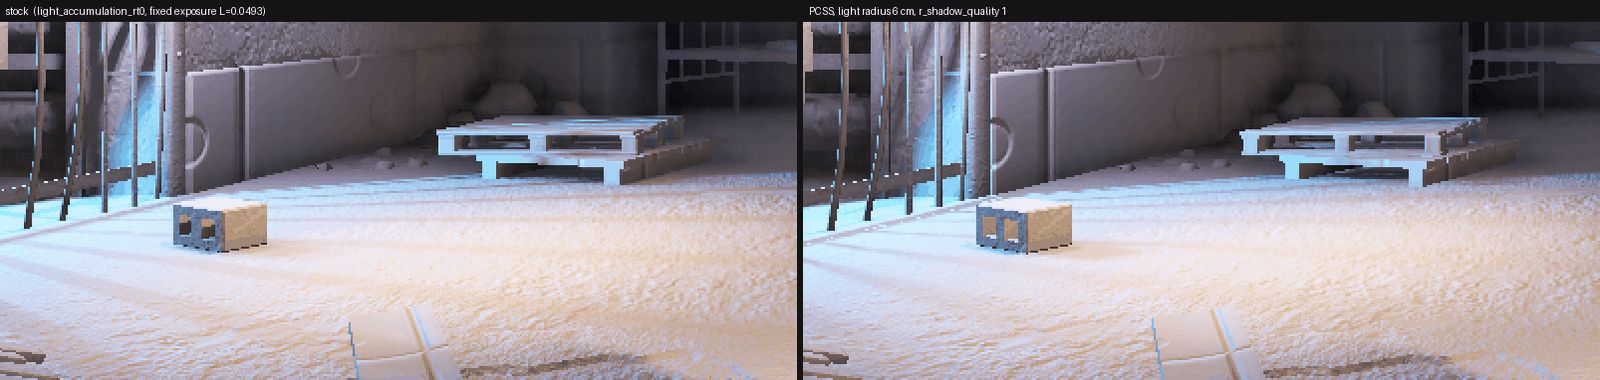
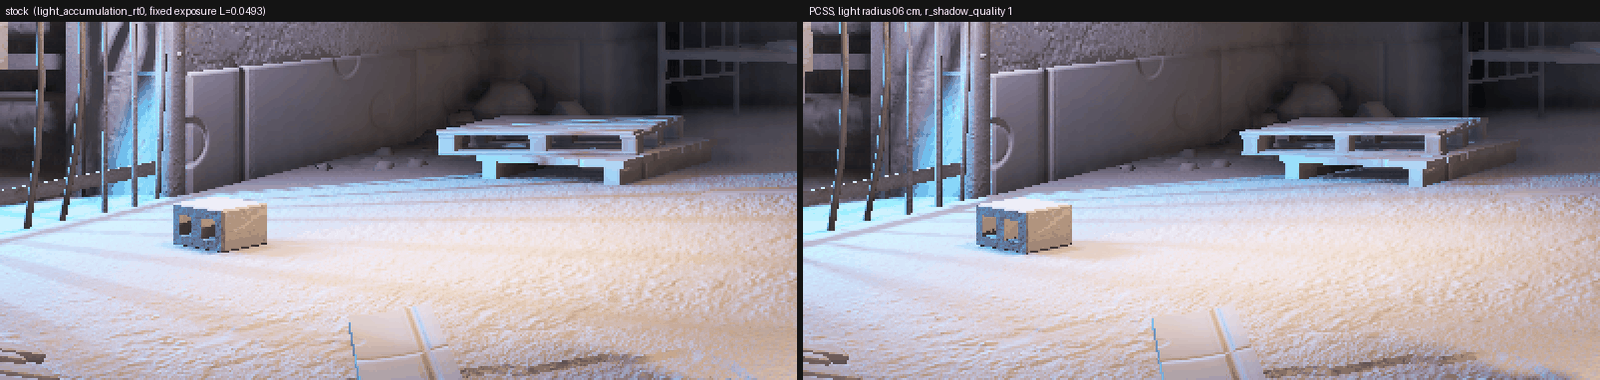
PCSS: its own normal offset (1.5 shadow-map texels along the normal); recaptured pairs, loss table and cost

diff --git a/srp-026g/docs/notes/renderer-026g.md b/srp-026g/docs/notes/renderer-026g.md
@@ -975,8 +975,9 @@ Pairs (`srp-026g/docs/images/renderer-026g/`; left stock, right PCSS; `r_shadow_
   receiver-plane bias (the full kernel radius times a slope clamped at tan = 10) pushed the
   compared depth behind a blocker that sits a few cm from its receiver. The current version
   biases each tap by its own distance from the centre and clamps the slope at tan = 2 (section
-  13): the bench shadow is back whole; the shelf's band is back, its far lower-left corner is
-  still lighter than stock.
+  13), and the normal offset is 1.5 shadow-map texels along the normal instead of the stock
+  9 cm towards the light: the bench shadow is back whole, the shelf's band is back; the far
+  lower-left corner of the shelf's shadow is still lighter than stock.
 
 Shadows lost or added against stock, OBSERVED (local-light diffuse in 8x8 blocks, the character
 masked out; % of blocks over 25 % brighter / darker):
@@ -984,9 +985,10 @@ masked out; % of blocks over 25 % brighter / darker):
 ```
                         shelf wall   under bench   whole view
 first try, 6 cm, q1      +46 / -0     +26 / -1      +5 / -2
-current,   6 cm, q1      +15 / -0      +5 / -3      +2 / -1
-current,  15 cm, q1      +19 / -0      +9 / -0      +3 / -2
-current,   6 cm, q2      +13 / -0      +1 / -0      +3 / -1   (against stock q2)
+per-tap bias, 6 cm, q1   +15 / -0      +5 / -3      +2 / -1
+current,   6 cm, q1       +8 / -3      +2 / -6      +2 / -2
+current,  15 cm, q1      +14 / -4      +4 / -6      +2 / -3
+current,   6 cm, q2       +6 / -1      +3 / -1      +4 / -2   (against stock q2)
 ```
 
 **Cost, OBSERVED** (GPU time of the 57 shadowed light draws of this frame, RenderDoc replay on an
@@ -995,13 +997,13 @@ draws stay at about 95 us):
 
 ```
 r_shadow_quality   stock     PCSS 6 cm        PCSS 15 cm
-       1           182 us    346 us (+164)    347 us (+165)
-       2           355 us    577 us (+222)    -
-whole frame (sum of draws): stock 2.25 ms (q1) / 2.49 ms (q2); PCSS 2.27..2.33 ms (q1) / 2.79 ms (q2)
+       1           182 us    363 us (+181)    362 us (+180)
+       2           355 us    600 us (+245)    -
+whole frame (sum of draws): stock 2.25 ms (q1) / 2.49 ms (q2); PCSS 2.34..2.42 ms (q1) / 2.82 ms (q2)
 ```
 
-PCSS at quality 1 (16 blocker loads + 8 compares) costs about what the stock quality 2 filter
-does (346 against 355 us). Frames per second were not measured: under the dummy display and the
+PCSS at quality 1 (16 blocker loads + 8 compares) costs what the stock quality 2 filter does,
+within the measurement's noise (363 against 355 us). Frames per second were not measured: under the dummy display and the
 capture layer the frame rate is set by the CPU and the 60 Hz mode, and the shadow cost
 (0.1..0.25 ms a frame here) is below what fps would show; the per-draw GPU time is the measure.
 
@@ -1080,6 +1082,9 @@ no shader; they are not a size and stay unused. PROVEN (the inputs), design (the
                     keep depths < the tap's biased receiver depth; none -> lit (no filter taps)
 2. penumbra         z_b = Qn / (Q - mean blocker depth)
                     w   = R (z_r - z_b) / z_b * P00 / (2 z_r)    in uv, clamped 1 .. 24 texels
+normal offset       1.5 shadow-map texels at the receiver, along the G-buffer normal (the stock
+                    24 / shadow_map_size metres towards the light moved a wall's receiver in
+                    front of a shelf on it at a grazing light)
 3. filter           N_f bilinear compare taps on a disc of radius w
                     s = saturate(mean + shadow_transparency)
 receiver-plane bias, per tap: depth minus (|tap| * radius + 1.5 texels) * Qn/z_r^2 *
@@ -1093,8 +1098,8 @@ disc: Vogel (golden angle); at r_shadow_quality 2 and 3 rotated per pixel by int
       as grain; the screen-fixed pattern is only smoothed when the player picks TAA)
 ```
 
-`R` is the light's radius, `z_r` the receiver's distance from the light. The stock normal offset
-(section 4.4) and the stock depth test (`0 <= d <= 1`) are kept.
+`R` is the light's radius, `z_r` the receiver's distance from the light. The stock depth test
+(`0 <= d <= 1`) is kept; the normal offset is PCSS's own (above), not the stock one (section 4.4).
 
 **Cost by `r_shadow_quality`** (the permutation's A digit), shadow-map reads per pixel of a
 shadowed light (a point light: per pixel of each face; each read is one instruction, a compare read
@@ -1111,8 +1116,11 @@ ALU slots (point, SSDO on): stock 146 / 181; PCSS 382 (q1), 595 (q2), 739 (q3)
 
 **Tested** in the Basement, section 11: contact hardening on the floor and the characters; the
 bench's shadow kept whole; the far corner of the shelf's shadow on the wall still lighter than
-stock (13..19 % of that wall's blocks). Next: the stock normal offset (up to 9 cm for a 256 map)
-scaled down where the penumbra is wide, which should give that corner back.
+stock (8 % of that wall's blocks at 6 cm, 14 % at 15 cm). What is left there is the per-tap
+receiver-plane bias over a wide penumbra at a grazing light: the clean fix is a slope-scaled depth
+bias in the shadow map itself (the caster draws' rasterizer state, an exe change), so that the
+shader needs no receiver bias; an exact per-tap receiver plane from screen derivatives is the
+shader-only one, and ps_4_0's coarse derivatives made that blocky (section 11).
 
 **Limits.**
 - Point-light faces are rendered with exactly 90 degrees and no guard band, so a kernel that
